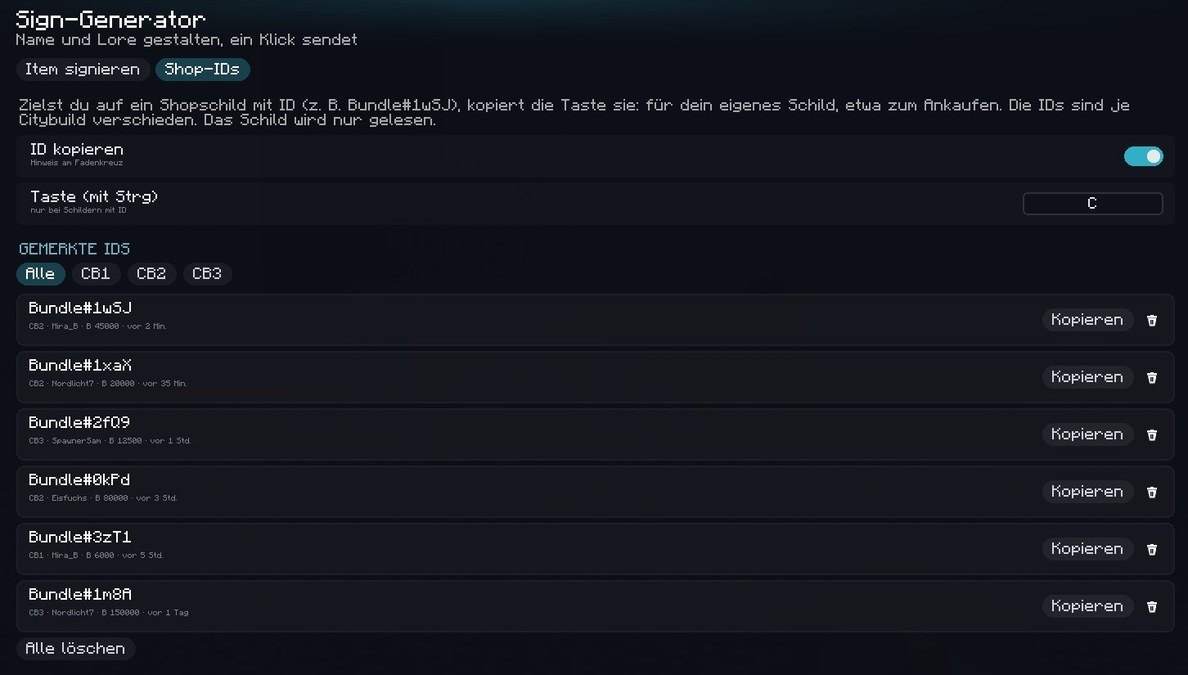
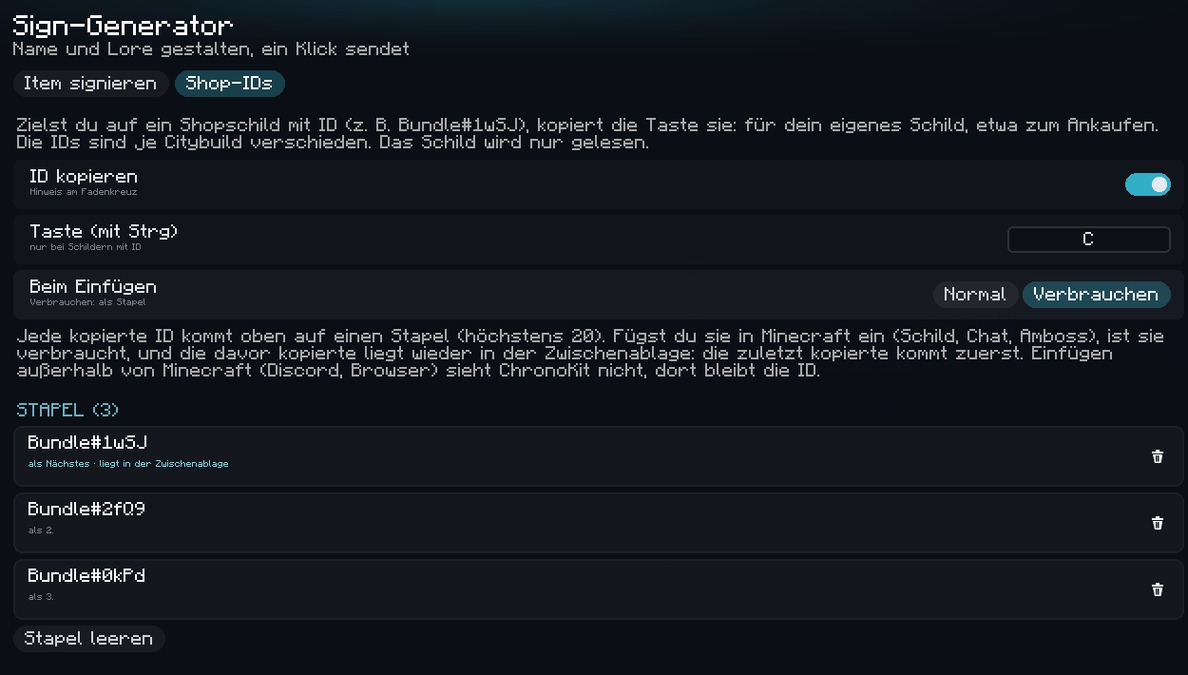
ChronoKit 2.0.72: Wunschzettel je Seltenheit, Shop-IDs verbrauchen

diff --git a/chronokit.html b/chronokit.html
@@ -521,7 +521,7 @@
           <p>Unter <b>Quests</b> warten jeden Tag drei und jede Woche drei Aufgaben, die dich bei deinen /a-Erfolgen auf OPSUCHT voranbringen. Dafür gibt es Kora-Sterne, und im Sternen-Laden wird daraus etwas Schönes.</p>
           <ul>
             <li><b>Serien-Bonus</b>: Schaffst du alle drei an einem Tag, gibt es Extra-Sterne, mit jedem Tag in Folge mehr</li>
-            <li><b>Sternentruhe</b>: über 230 Belohnungen nach Seltenheit, die Chancen stehen offen dran. Doppelte geben Sterne zurück</li>
+            <li><b>Sternentruhe</b>: über 230 Belohnungen nach Seltenheit, die Chancen stehen offen dran. Doppelte geben Sterne zurück. Auf den Wunschzettel kommt je Seltenheit ein Wunsch, der in seiner Seltenheit dreifach zählt</li>
             <li><b>Was drin ist</b>: die Sets Bass (reagiert auf deine Musik), Sprayer mit eigenem Kürzel, Pixel, Glibber, Streamer, Sternbild und Abenteurer, dazu Mitmach-Emotes, Mimi-Plätze bis 100, neue Mimi-Arten, Namensstile mit Verläufen in Bewegung und die Spielerkarte, Liedschriften, Kart-Karosserien und Menü-Themen</li>
             <li><b>Quest-Ei</b>: wächst mit jeder geschafften Quest, bis eines von sieben Wesen schlüpft</li>
             <li><b>/a-Belohnungen</b>: Ist ein /a-Bereich fertig, schaltet er passende Teile frei</li>
@@ -953,9 +953,9 @@
           <div>
             <p class="ico">SHOP-ID</p>
             <h3 style="margin-top:8px">IDs mit Strg+C kopieren</h3>
-            <p style="margin-top:10px">Schaust du ein Schild an, steht am Fadenkreuz, dass Strg+C die ID kopiert. Alle kopierten IDs bleiben in einer Merkliste auf der Seite Signieren.</p>
+            <p style="margin-top:10px">Schaust du ein Schild an, steht am Fadenkreuz, dass Strg+C die ID kopiert. Alle kopierten IDs bleiben in einer Merkliste auf der Seite Signieren. Auf Wunsch werden sie beim Einfügen verbraucht: Strg+V nimmt die oberste ID, danach liegt die vorige wieder bereit.</p>
           </div>
-          <div class="shot"><img src="/assets/chronokit/shop-id.jpg" alt="ChronoKit-Menü, Seite Signieren, Reiter Shop-IDs: der Schalter, die Taste Strg plus C und eine Liste kopierter Shop-IDs wie Bundle#1wSJ mit Citybuild, Besitzer, Preis und Knöpfen zum Kopieren und Löschen" width="1188" height="675" loading="lazy"></div>
+          <div class="shot"><img src="/assets/chronokit/shop-id.jpg" alt="ChronoKit-Menü Signieren, Reiter Shop-IDs: der Schalter ID kopieren, die Taste Strg plus C, die Wahl Beim Einfügen: Verbrauchen und ein Stapel aus drei kopierten Shop-IDs, die oberste liegt als nächste in der Zwischenablage" width="1188" height="675" loading="lazy"></div>
         </div>
         <div class="card wide">
           <div>
